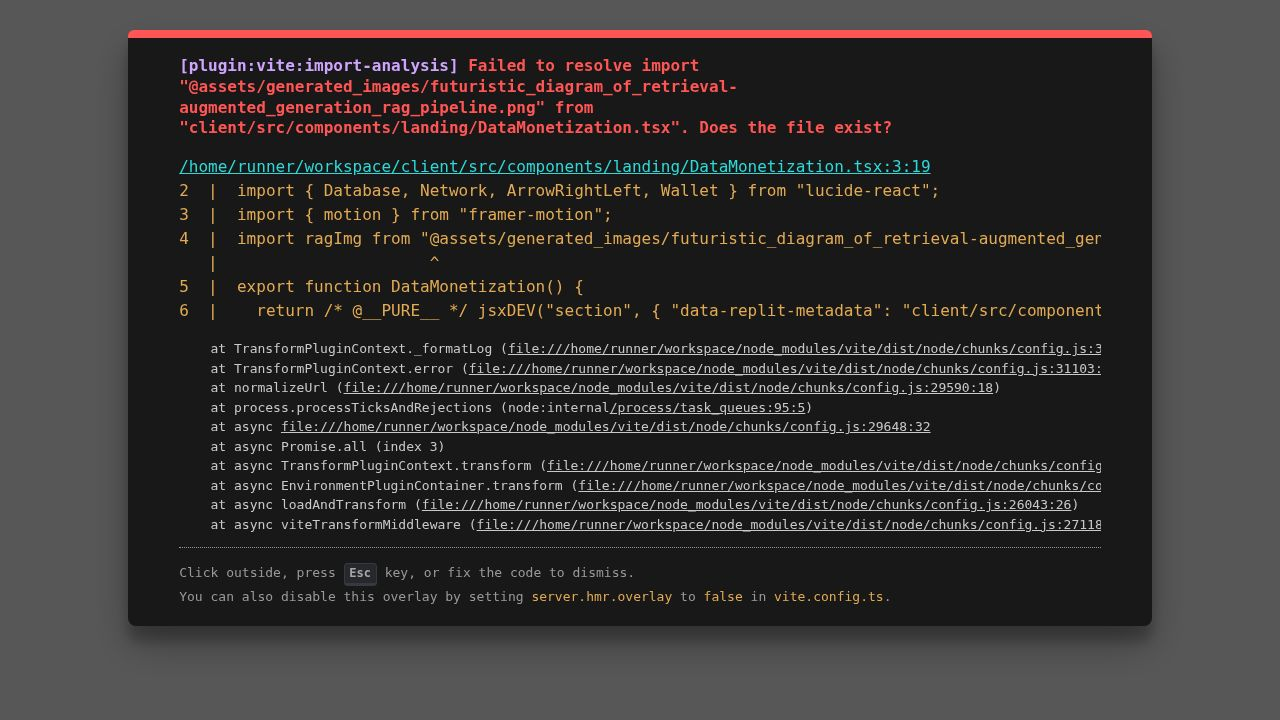
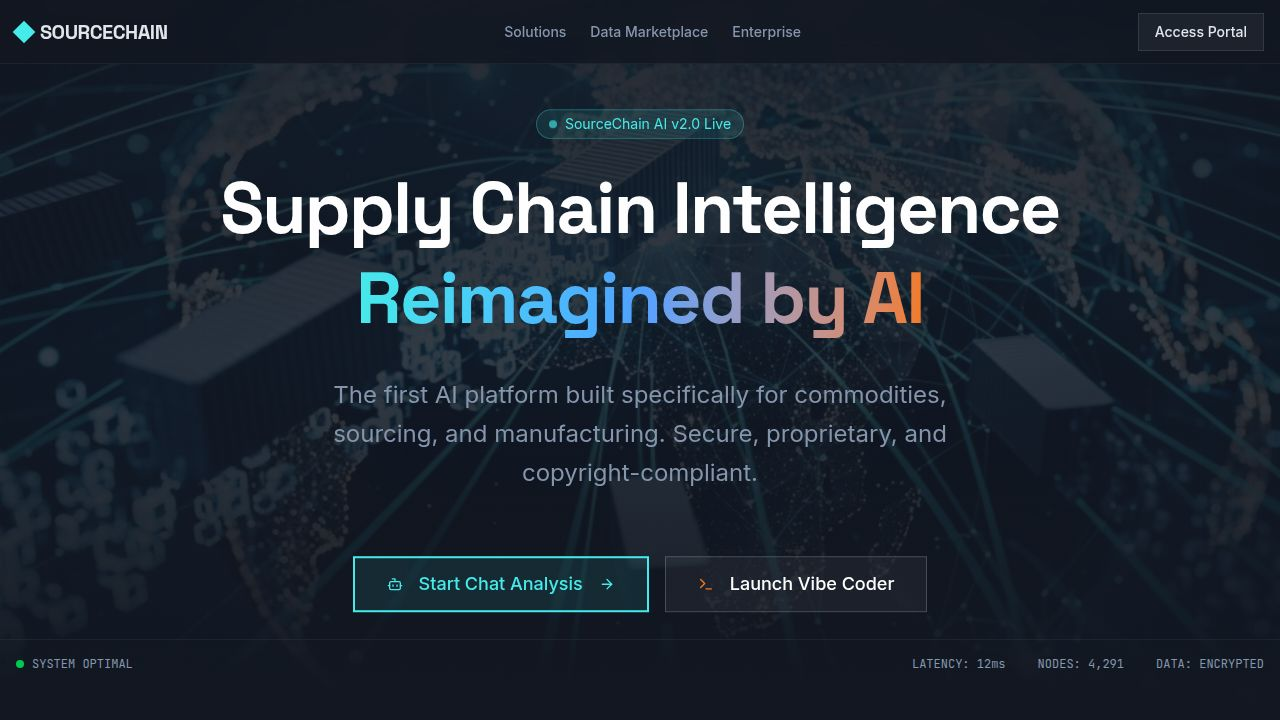
Add ERP data connector feature with database integration
Update Features component to include a new ERP Data Connector feature card, supporting MySQL, Postgres, and Oracle plugins, and adjust layout to a 3-column grid.

Replit-Commit-Author: Agent
Replit-Commit-Session-Id: 9e82e00b-19f3-4e54-ac80-ca5fd098ef82
Replit-Commit-Checkpoint-Type: full_checkpoint
Replit-Commit-Event-Id: bfd88a9b-16b8-43cc-8d33-fc4e428e76ae
Replit-Commit-Screenshot-Url: https://storage.googleapis.com/screenshot-production-us-central1/bebdbea7-58e6-4557-b5d2-cb249ace1e7c/9e82e00b-19f3-4e54-ac80-ca5fd098ef82/3fLTc0M
Replit-Helium-Checkpoint-Created: true

diff --git a/client/src/components/landing/Features.tsx b/client/src/components/landing/Features.tsx
@@ -1,8 +1,9 @@
 import { Card, CardContent, CardDescription, CardHeader, CardTitle } from "@/components/ui/card";
 import { motion } from "framer-motion";
-import { MessageSquareCode, FileCode, Database, Lock, Globe, Cpu } from "lucide-react";
+import { MessageSquareCode, FileCode, Database, Lock, Globe, Cpu, Server } from "lucide-react";
 import chatImg from "@assets/generated_images/ai_interface_analyzing_logistics_documents.png";
 import codeImg from "@assets/generated_images/secure_data_vault_with_code_streams.png";
+import dbImg from "@assets/generated_images/high_tech_database_plugin_connector.png";
 
 export function Features() {
   const features = [
@@ -19,6 +20,13 @@ export function Features() {
       icon: <FileCode className="w-8 h-8 text-accent" />,
       image: codeImg,
       tags: ["Python Generation", "Proprietary Data", "Secure Execution"]
+    },
+    {
+      title: "ERP Data Connector",
+      description: "Seamlessly extract data from MySQL, Postgres, and Oracle systems. Our plugin extends your existing ERP software to feed the AI pipeline.",
+      icon: <Server className="w-8 h-8 text-blue-400" />,
+      image: dbImg,
+      tags: ["MySQL", "PostgreSQL", "Oracle", "ERP Integration"]
     }
   ];
 
@@ -26,13 +34,13 @@ export function Features() {
     <section className="py-24 bg-background relative">
       <div className="container mx-auto px-4">
         <div className="text-center max-w-3xl mx-auto mb-20">
-          <h2 className="text-3xl md:text-5xl font-bold font-heading mb-4">Dual Intelligence Engines</h2>
+          <h2 className="text-3xl md:text-5xl font-bold font-heading mb-4">Intelligence Infrastructure</h2>
           <p className="text-muted-foreground text-lg">
-            Whether you need instant answers or custom tooling, SourceChain provides the specialized AI infrastructure for modern manufacturing.
+            Whether you need instant answers, custom tooling, or deep data integration, SourceChain provides the specialized AI infrastructure for modern manufacturing.
           </p>
         </div>
 
-        <div className="grid md:grid-cols-2 gap-8">
+        <div className="grid md:grid-cols-3 gap-8">
           {features.map((feature, index) => (
             <motion.div
               key={index}
@@ -42,8 +50,8 @@ export function Features() {
               viewport={{ once: true }}
               className="group"
             >
-              <Card className="h-full bg-card/30 border-white/10 backdrop-blur-sm overflow-hidden hover:border-primary/50 transition-colors duration-500 rounded-none">
-                <div className="h-64 overflow-hidden relative">
+              <Card className="h-full bg-card/30 border-white/10 backdrop-blur-sm overflow-hidden hover:border-primary/50 transition-colors duration-500 rounded-none flex flex-col">
+                <div className="h-56 overflow-hidden relative flex-shrink-0">
                   <div className="absolute inset-0 bg-gradient-to-t from-card via-transparent to-transparent z-10" />
                   <img 
                     src={feature.image} 
@@ -54,14 +62,14 @@ export function Features() {
                     {feature.icon}
                   </div>
                 </div>
-                <CardHeader>
-                  <CardTitle className="text-2xl font-heading text-white">{feature.title}</CardTitle>
-                  <CardDescription className="text-base mt-2">{feature.description}</CardDescription>
+                <CardHeader className="flex-grow-0 pb-2">
+                  <CardTitle className="text-xl font-heading text-white">{feature.title}</CardTitle>
+                  <CardDescription className="text-sm mt-2 leading-relaxed">{feature.description}</CardDescription>
                 </CardHeader>
-                <CardContent>
-                  <div className="flex flex-wrap gap-2">
+                <CardContent className="flex-grow flex items-end pt-0">
+                  <div className="flex flex-wrap gap-2 mt-4">
                     {feature.tags.map((tag, i) => (
-                      <span key={i} className="text-xs font-mono px-2 py-1 border border-white/10 bg-white/5 text-primary/80 rounded-none">
+                      <span key={i} className="text-[10px] font-mono px-2 py-1 border border-white/10 bg-white/5 text-primary/80 rounded-none uppercase tracking-wider">
                         {tag}
                       </span>
                     ))}
